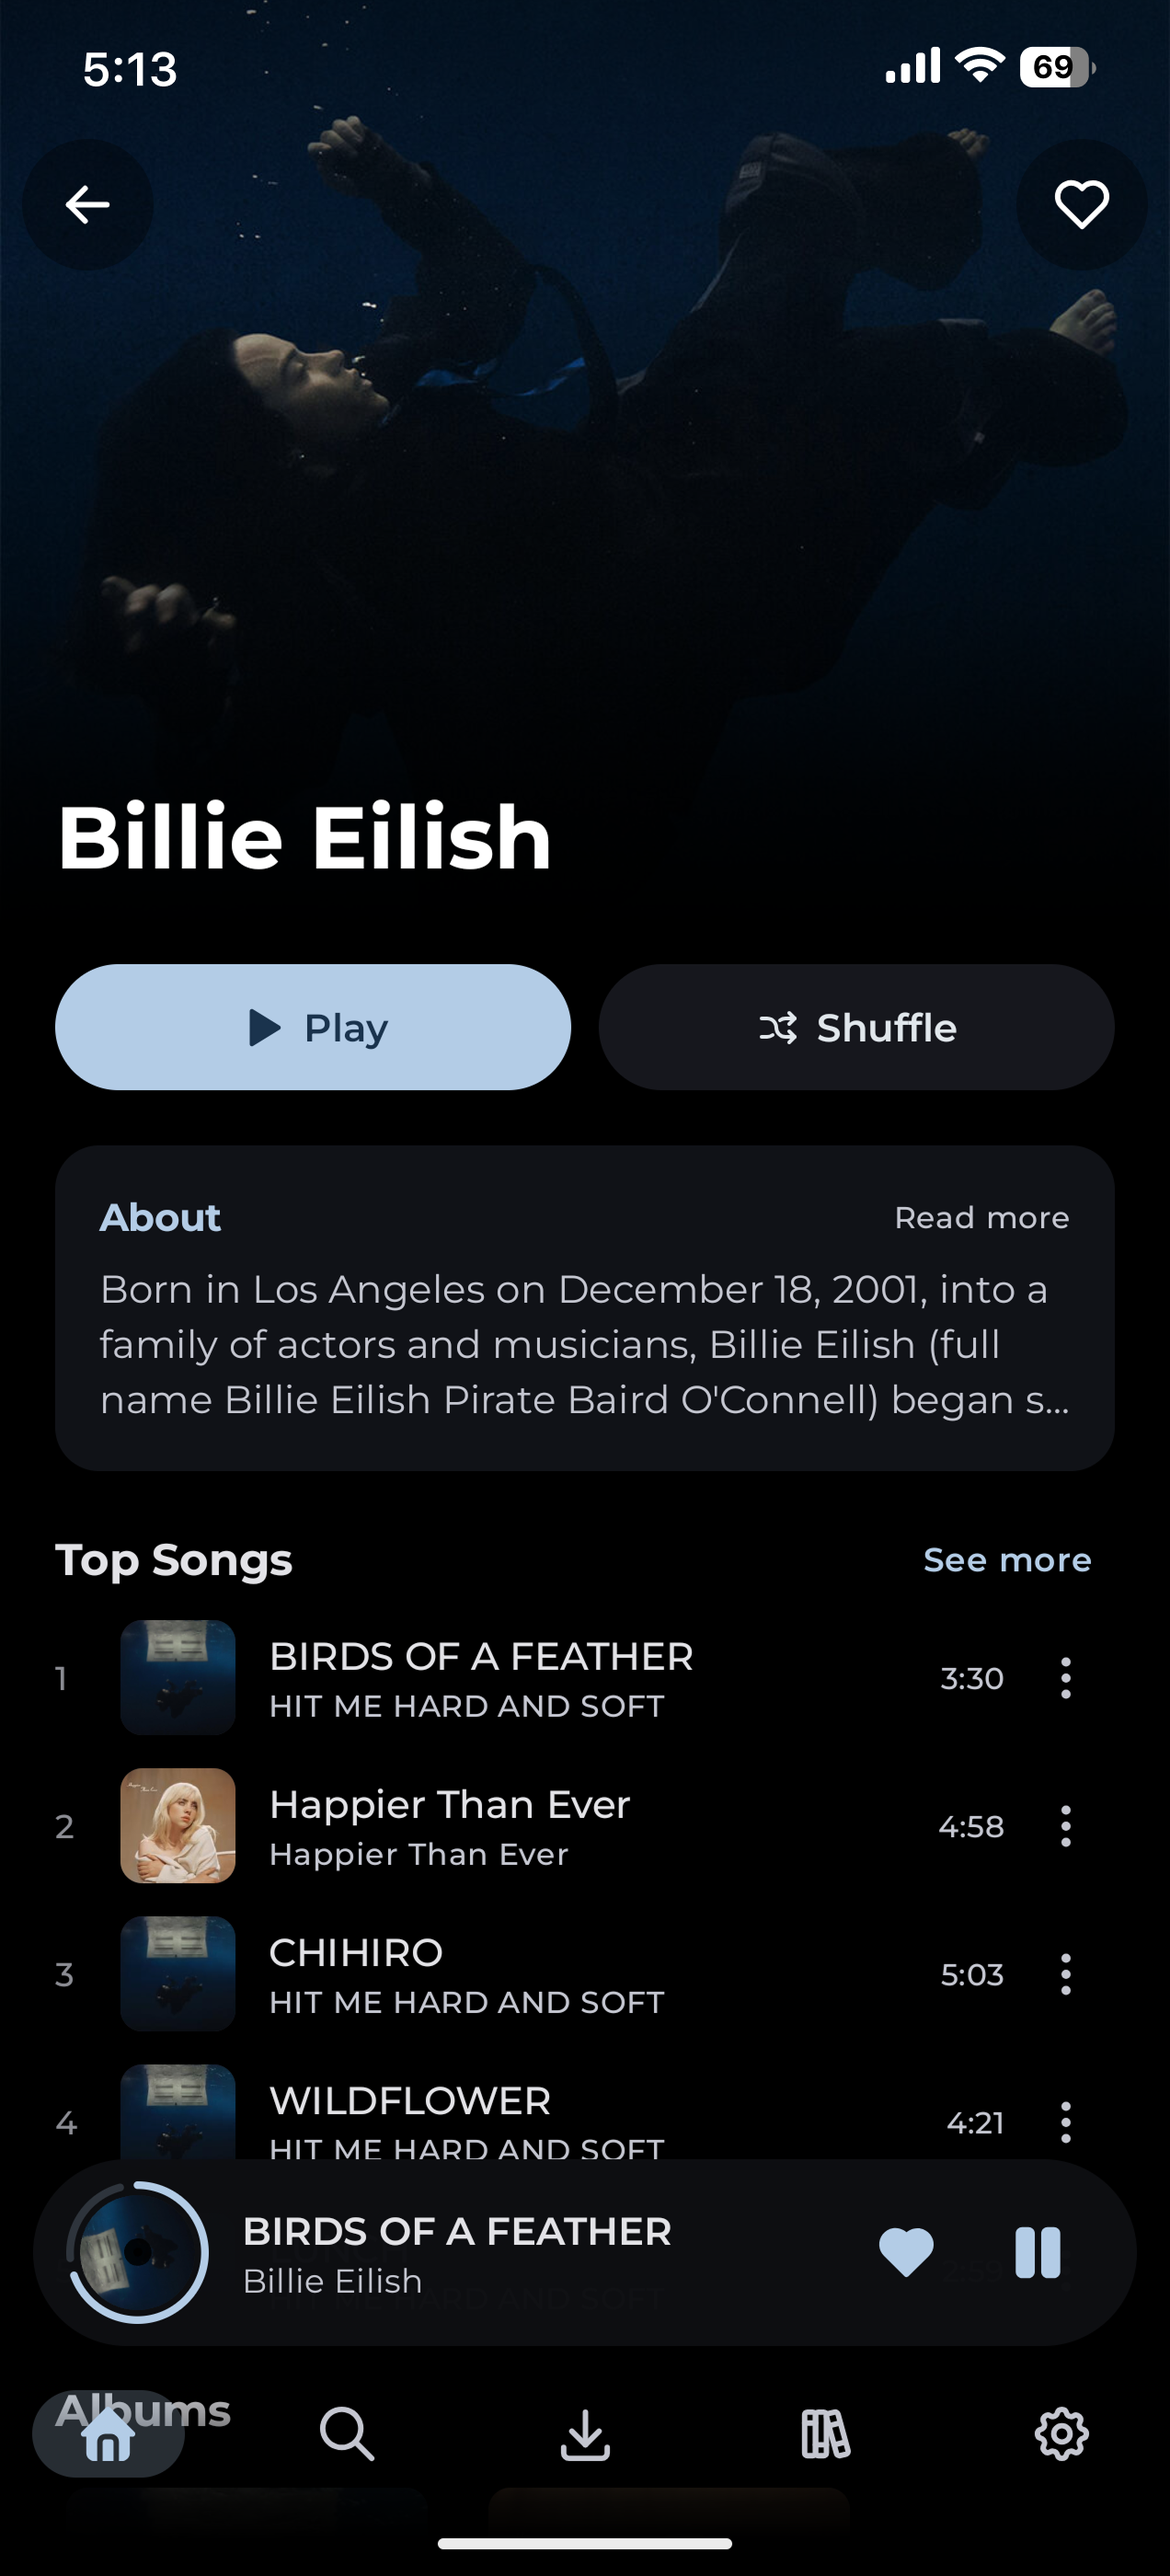
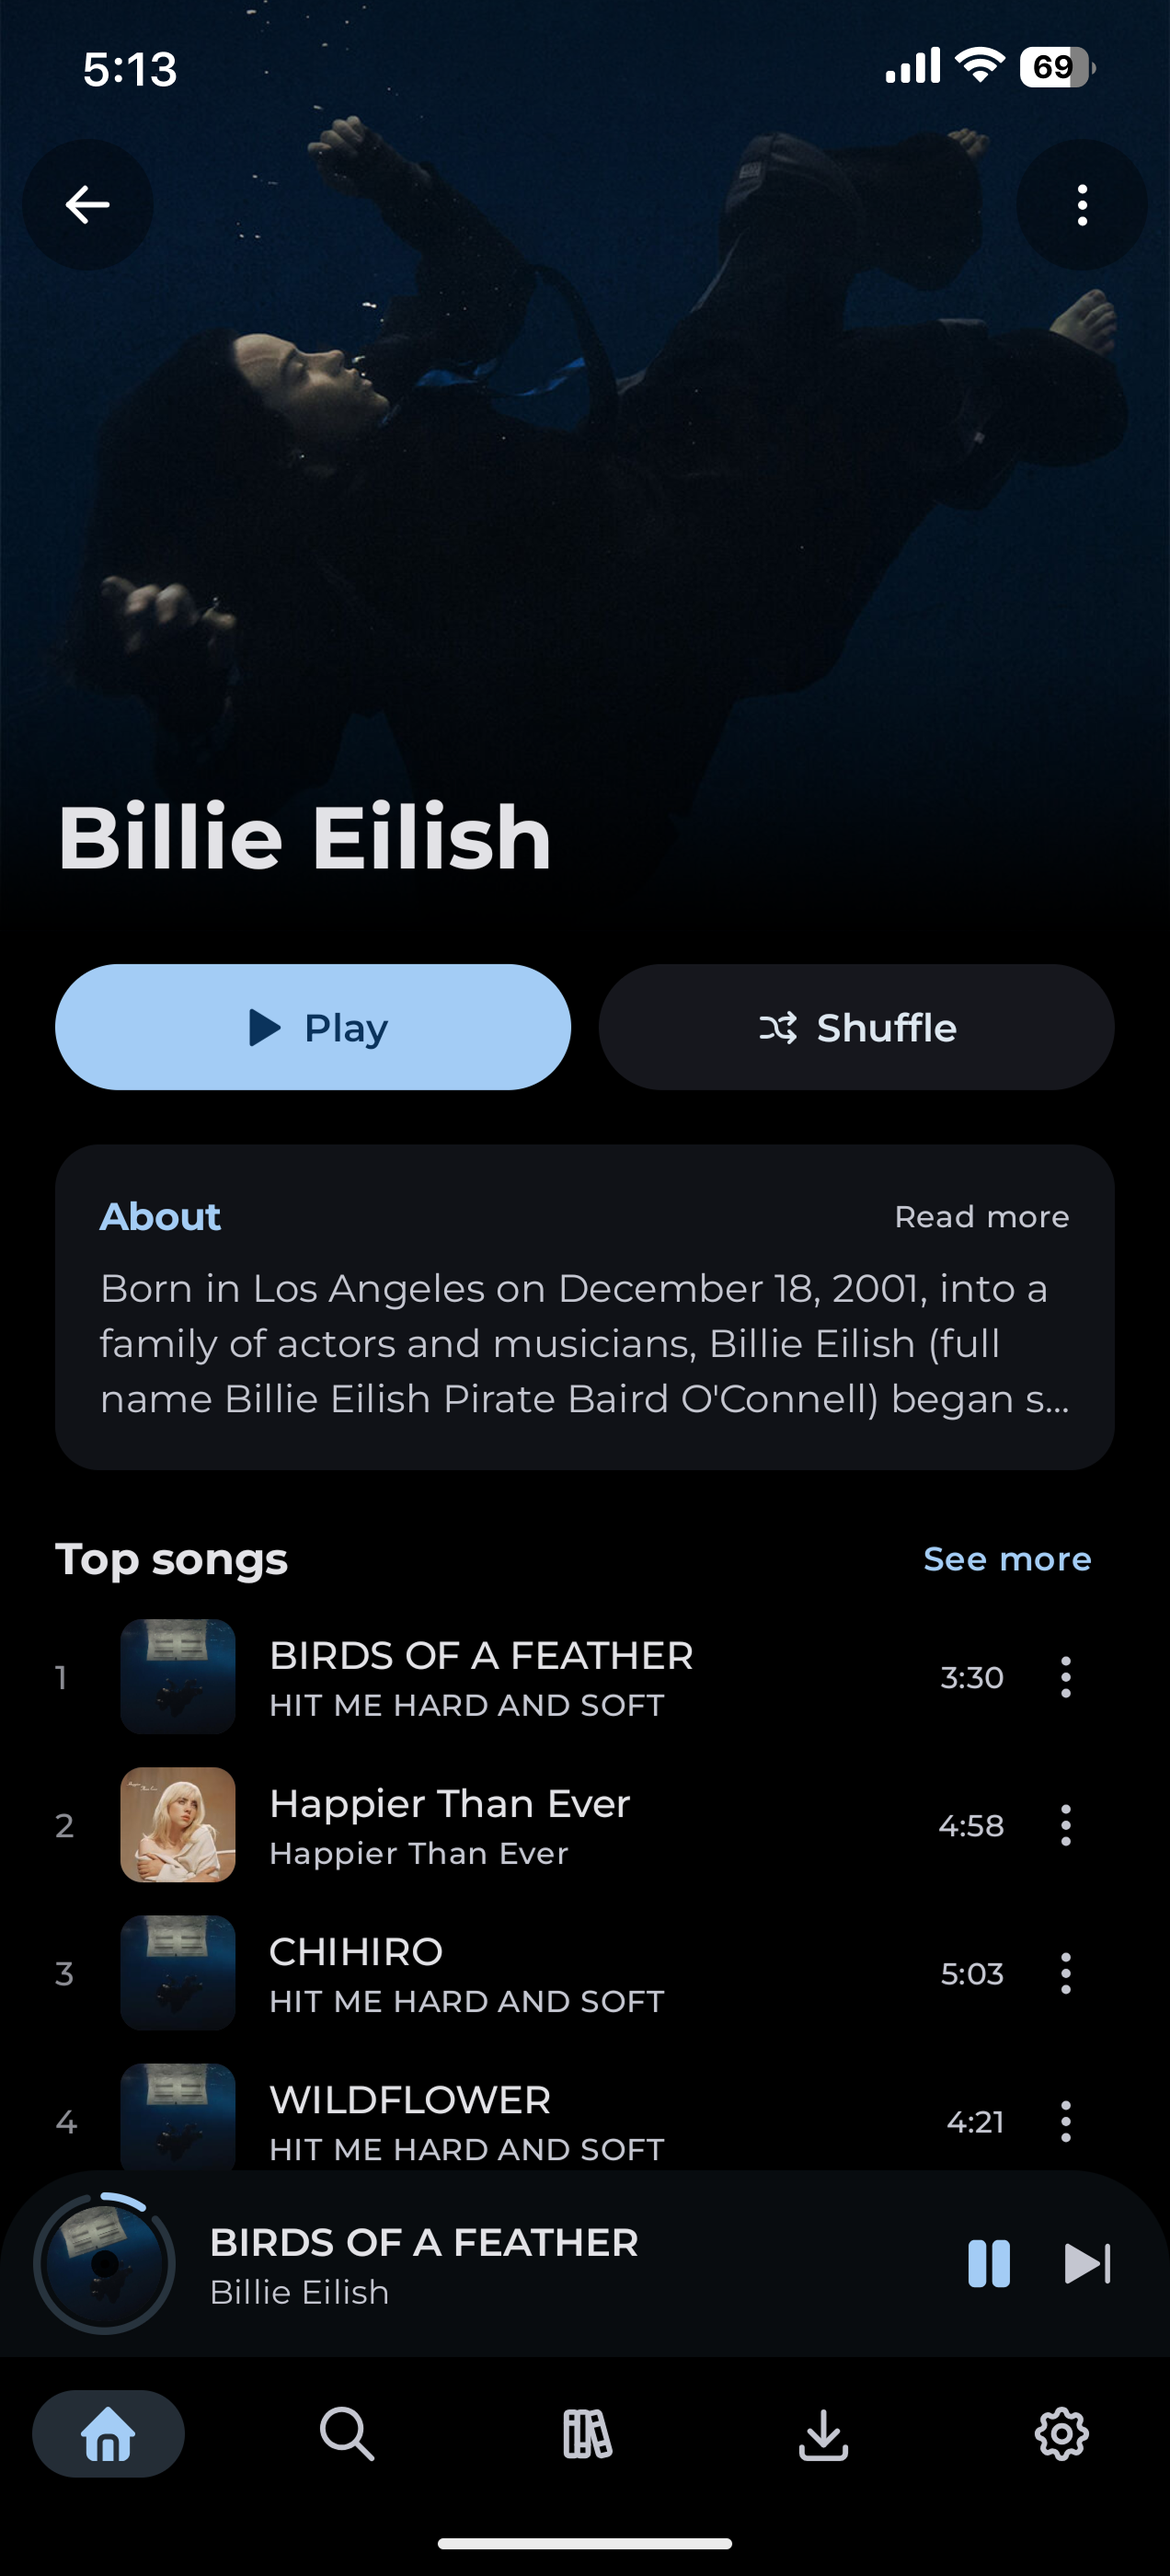
docs: add crowdin.yml and contributing.md

diff --git a/CONTRIBUTING.md b/CONTRIBUTING.md
@@ -1,0 +1,57 @@
+# Contributing to Uta
+
+Thank you for your interest in contributing to Uta! Whether you want to report a bug, suggest a feature, or submit code changes, your help is welcome.
+
+## Getting Started
+
+### Prerequisites
+
+- **JDK 17** or higher
+- **Android Studio** (latest stable release recommended)
+- **Android SDK** (API 34+)
+
+### Building from Source
+
+1. Clone the repository:
+   ```bash
+   git clone https://github.com/NotMugil/uta.git
+   cd uta
+   ```
+2. Build the debug APK:
+   ```bash
+   ./gradlew assembleDebug
+   ```
+3. Run tests:
+   ```bash
+   ./gradlew test
+   ```
+
+## How to Contribute
+
+### Reporting Issues
+
+- Check existing [issues](https://github.com/NotMugil/uta/issues) before opening a new one to avoid duplicates.
+- Clearly describe the bug or feature request, including steps to reproduce, device/OS details, server type (e.g. Navidrome, Subsonic), and screenshots or logs where applicable.
+
+### Submitting Pull Requests
+
+1. **Fork** the repository and create a new feature branch off `main`:
+   ```bash
+   git checkout -b feat/your-feature-name
+   ```
+2. **Make your changes**, adhering to standard Kotlin and Jetpack Compose best practices.
+3. **Verify your changes** on a device or emulator and ensure `./gradlew test` passes.
+4. **Commit** with clear, descriptive commit messages.
+5. **Open a Pull Request** against the `main` branch with an explanation of your changes and references to relevant issues.
+
+### Translations
+
+We welcome translations into other languages! Translations are managed via **[Crowdin](https://crowdin.com/project/uta-android)**:
+1. Join the [Uta Crowdin Project](https://crowdin.com/project/uta-android) to translate strings directly in your browser.
+2. If your language is not listed, [open an issue](https://github.com/NotMugil/uta/issues) to request it.
+3. Completed translations on Crowdin will be automatically synchronized with the repository.
+
+## Code Style
+
+- Follow standard [Kotlin Coding Conventions](https://kotlinlang.org/docs/coding-conventions.html).
+- Keep composables modular, clean, and idiomatic.

diff --git a/README.md b/README.md
@@ -30,7 +30,18 @@ Get the latest APK from the [Releases](https://github.com/NotMugil/uta/releases/
 
 Also you can get automatic updates directly via [Obtainium](https://apps.obtainium.imranr.dev/redirect?r=obtainium://add/https://github.com/NotMugil/uta).
 
----
+
+## Translations
+
+Want to help bring Uta to your language or improve existing strings? Join the **[Crowdin project](https://crowdin.com/project/uta-android)**.
+
+If your language isn't listed, please [open an issue](https://github.com/NotMugil/uta/issues) to request it.
+
+## Contributing
+
+Contributions are welcome! Whether it is bug fixes, new features, UI improvements, or documentation — all help is appreciated.  
+
+Please read the [Contributing Guide](./CONTRIBUTING.md) before getting started.
 
 ## License
 This project is licensed under the [GNU General Public License v3.0 (GPL-3.0)](./LICENSE)
